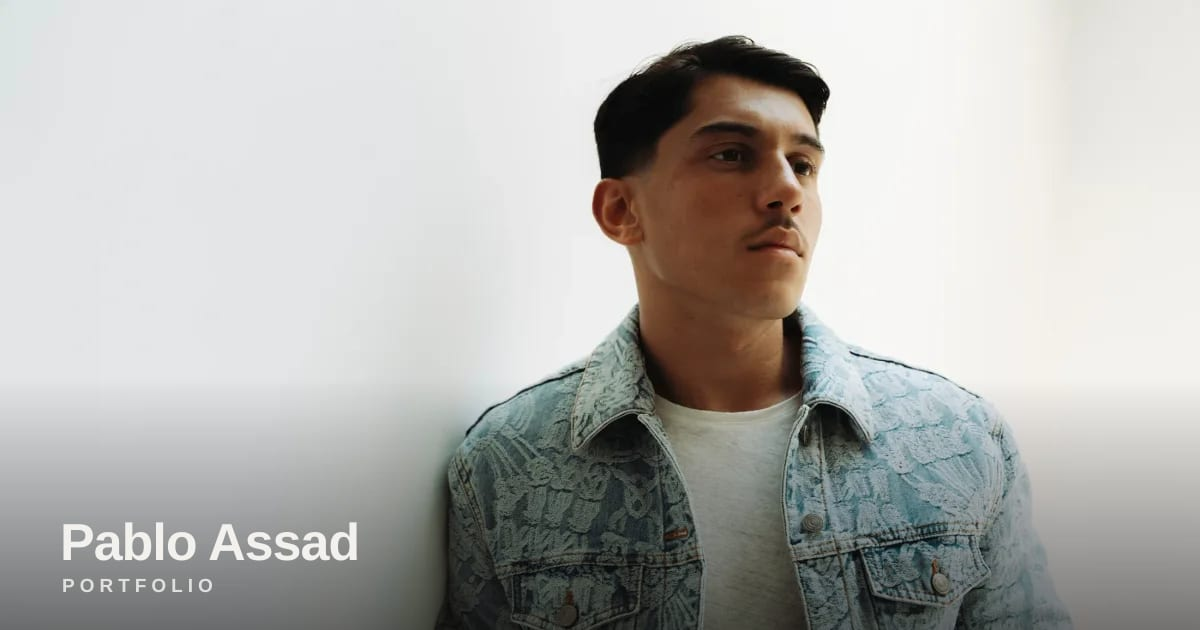
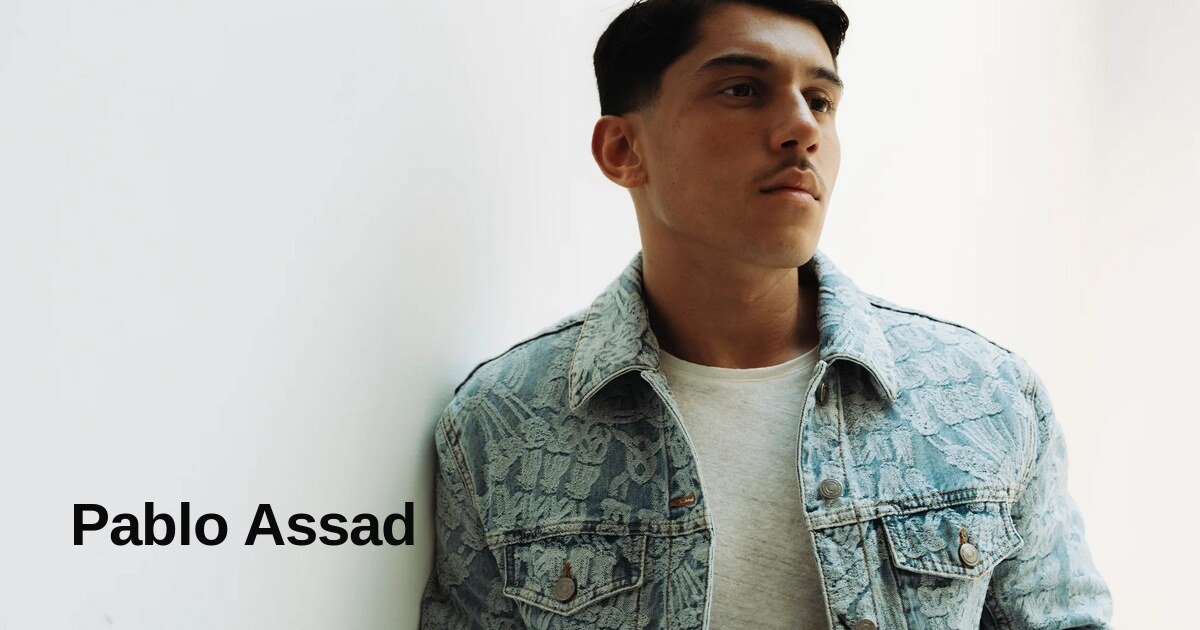
Sélection sur une ligne; retour au bon endroit au repli; carte de partage sans "Portfolio"
- PieceWall: une seule ligne visible (PIECES_VISIBLE 3), le reste derrière
  "voir plus" (Ruby teaser + bannière compris).
- "voir moins" ramène le visiteur exactement là où il était avant le
  dépliage (position mémorisée, restaurée en useLayoutEffect, overflow-anchor
  désactivé sur le mur pour éviter les à-coups). Repli en fondu, sans embardée.
- Partage: image og.jpg régénérée sans le mot "Portfolio" (portrait + "Pablo
  Assad" seul); titres openGraph/twitter passés de "Pablo Assad · Portfolio"
  à "Pablo Assad".

Claude-Session: https://claude.ai/code/session_015wfcD2AaiDsUbW69AmUwMz

diff --git a/components/chapters/Catalogue.tsx b/components/chapters/Catalogue.tsx
@@ -1,9 +1,9 @@
 "use client";
 
-import { useCallback, useEffect, useMemo, useRef, useState } from "react";
+import { useCallback, useEffect, useLayoutEffect, useMemo, useRef, useState } from "react";
 import Image from "next/image";
 import Link from "next/link";
-import { AnimatePresence, motion, useReducedMotion, useScroll, useTransform } from "framer-motion";
+import { motion, useReducedMotion, useScroll, useTransform } from "framer-motion";
 import { useLanguage } from "@/lib/i18n/LanguageProvider";
 import { useAudio } from "@/lib/audio/AudioProvider";
 import { useElementWidth } from "@/lib/hooks/useElementWidth";
@@ -665,13 +665,42 @@ function PieceFigure({
  * un-muted; a missing visual becomes a quiet placeholder.
  */
 // How many packed units show on arrival; the rest sit behind "voir plus".
-const PIECES_VISIBLE = 6;
+// One justified row of the strongest pieces; everything else folds away.
+const PIECES_VISIBLE = 3;
 
 function PieceWall({ pieces, comingSoonLabel, onExpand }: { pieces: Piece[]; comingSoonLabel: string; onExpand: (m: LightboxMedia) => void }) {
   const { t, locale } = useLanguage();
   const [ref, width] = useElementWidth<HTMLDivElement>();
   const [videoAr, setVideoAr] = useState<Record<string, number>>({});
   const [showAll, setShowAll] = useState(false);
+  // "voir moins" must leave the visitor exactly where they were before they
+  // expanded — on the Sélection — never stranded further down. We record the
+  // scroll on expand and jump back to it on collapse, synchronously before
+  // paint. Scroll anchoring is disabled on the wall (below) so the browser
+  // doesn't fight the jump as rows are added/removed.
+  const scrollBeforeExpand = useRef<number | null>(null);
+  const justCollapsed = useRef(false);
+
+  const toggleShowAll = useCallback(() => {
+    setShowAll((open) => {
+      if (!open) {
+        scrollBeforeExpand.current = window.scrollY;
+        return true;
+      }
+      justCollapsed.current = true;
+      return false;
+    });
+  }, []);
+
+  useLayoutEffect(() => {
+    if (!justCollapsed.current) return;
+    justCollapsed.current = false;
+    const y = scrollBeforeExpand.current;
+    if (y == null) return;
+    const l = window.__lenis;
+    if (l) l.scrollTo(y, { immediate: true, force: true });
+    else window.scrollTo(0, y);
+  }, [showAll]);
 
   const GAP = 6;
   const targetH = width < 640 ? 260 : width < 1024 ? 360 : width < 1600 ? 460 : 540;
@@ -754,31 +783,27 @@ function PieceWall({ pieces, comingSoonLabel, onExpand }: { pieces: Piece[]; com
     ));
 
   return (
-    <div ref={ref} className="flex flex-col" style={{ gap: GAP }}>
+    <div ref={ref} className="flex flex-col" style={{ gap: GAP, overflowAnchor: "none" }}>
       {renderRows(visibleRows)}
 
       {restCount > 0 && (
         <>
-          <AnimatePresence initial={false}>
-            {showAll && (
-              <motion.div
-                key="rest"
-                initial={{ height: 0, opacity: 0 }}
-                animate={{ height: "auto", opacity: 1 }}
-                exit={{ height: 0, opacity: 0 }}
-                transition={{ duration: 0.55, ease: [0.16, 1, 0.3, 1] }}
-                style={{ overflow: "hidden" }}
-              >
-                <div className="flex flex-col" style={{ gap: GAP, paddingTop: GAP }}>
-                  {renderRows(restRows)}
-                </div>
-              </motion.div>
-            )}
-          </AnimatePresence>
+          {showAll && (
+            <motion.div
+              key="rest"
+              initial={{ opacity: 0 }}
+              animate={{ opacity: 1 }}
+              transition={{ duration: 0.45, ease: [0.16, 1, 0.3, 1] }}
+              className="flex flex-col"
+              style={{ gap: GAP, paddingTop: GAP }}
+            >
+              {renderRows(restRows)}
+            </motion.div>
+          )}
 
           <button
             type="button"
-            onClick={() => setShowAll((v) => !v)}
+            onClick={toggleShowAll}
             aria-expanded={showAll}
             className="group mt-6 flex w-full items-center gap-4 text-[0.65rem] font-medium uppercase tracking-[0.2em]"
           >

diff --git a/app/layout.tsx b/app/layout.tsx
@@ -54,7 +54,7 @@ export const metadata: Metadata = {
   ],
   authors: [{ name: "Pablo Assad" }],
   openGraph: {
-    title: "Pablo Assad · Portfolio",
+    title: "Pablo Assad",
     description: "Communication et direction de projet. Design, image, son.",
     url: siteUrl,
     siteName: "Pablo Assad",
@@ -64,7 +64,7 @@ export const metadata: Metadata = {
   },
   twitter: {
     card: "summary_large_image",
-    title: "Pablo Assad · Portfolio",
+    title: "Pablo Assad",
     description: "Communication et direction de projet. Design, image, son.",
     images: [ogImageUrl],
   },

diff --git a/app/repertoire/page.tsx b/app/repertoire/page.tsx
@@ -10,7 +10,7 @@ export const metadata: Metadata = {
     title: "Pablo Assad · Répertoire",
     description: "Productions et réalisations, en images.",
     url: `${siteUrl}/repertoire`,
-    images: [{ url: "/og.jpg", width: 1200, height: 630, alt: "Pablo Assad · Portfolio" }],
+    images: [{ url: "/og.jpg", width: 1200, height: 630, alt: "Pablo Assad" }],
     siteName: "Pablo Assad",
     locale: "fr_FR",
     type: "website",
